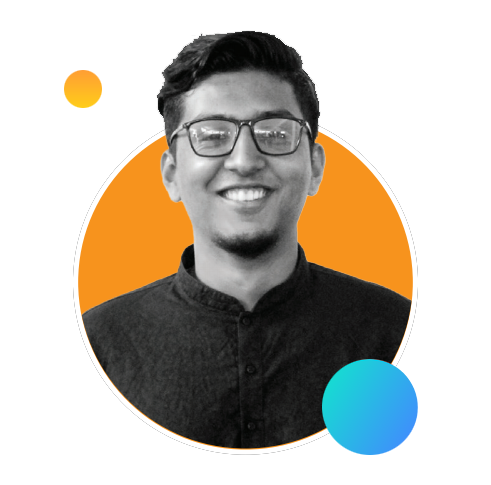
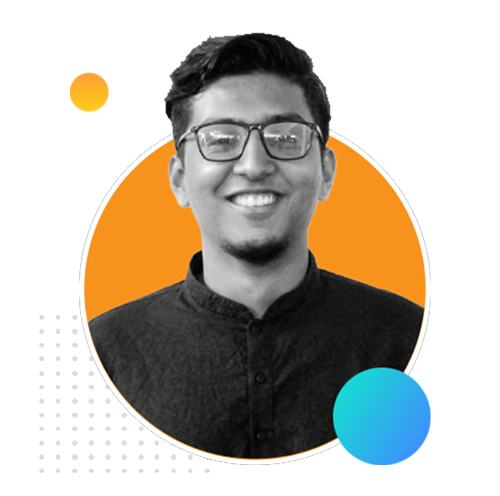
propic-update

diff --git a/style.css b/style.css
@@ -21,7 +21,7 @@ section {
 }
 
 .profile-image {
-    width: 80%;
+    width: 90%;
 }
 
 .link-button {
